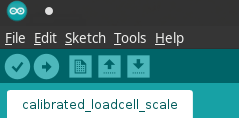
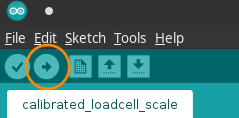
added images and finished instructions

Changed region(s): [[0.0879, 0.3559, 0.3222, 0.7881]]

diff --git a/README.md b/README.md
@@ -35,16 +35,16 @@ Als erstes muss der Raspberry Pi einsatzbereit gemacht werden. Die folgenden Sch
 
 1. Flashe die SD-Karte mit der aktuellsten stable Version von Raspbian bzw. Raspberry OS und stecke sie in den Raspberry Pi
 
-2. Öffne ein Terminal (`Strg + Alt + T`) und update die Software mit:
+2. Starte den Raspberry Pi und öffne ein Terminal (`Strg + Alt + T`) und update die Software mit:
 ```bash
 sudo apt update && sudo apt upgrade -y
 ```
 
-3. Ändere die Datei `/boot/config.txt` wie hier auf der folgenden Website, unter dem Punkt `Software setting`, beschrieben https://www.waveshare.com/wiki/7inch_DSI_LCD  
+3. Ändere die Datei `/boot/config.txt` wie hier auf der folgenden Website, unter dem Punkt `Software setting`, beschrieben (https://www.waveshare.com/wiki/7inch_DSI_LCD)  
 
 **Kurze Zusammenfassung**
 
-Unkommentiere den folgenden Teil der Datei:
+Entkommentiere den folgenden Teil der Datei:
 ```
 #camera_auto_detect=1
 #dtoverlay=vc4-kms-v3d
@@ -82,7 +82,7 @@ sudo apt install arduino
 
 2. Wenn du es noch nicht getan hast, dann Klone das Git Repository für dieses Projekt mit:
 ```bash
-git clone <TODO: Repo URL einfügen>
+git clone git@github.com:cbm-instructions/micro-change.git
 ```
 
 3. Öffne die Arduino IDE und installiere die Library `HX711_ADC` von Olav Kallhovd (https://github.com/olkal/HX711_ADC) wie folgt:  
@@ -109,7 +109,7 @@ const int HX711_sck = 6;
 
 Starte jetzt die erste Kalibrierung. Klicke dafür auf den Button mit dem Pfeil. 
 
--- TODO: Bild mit button einfügen --
+<img src="images/run_button.png" />
 
 Um die Kalibrierung durchzuführen musst du den Serial Monitor öffnen. Klicke dazu auf `Tools > Serial Monitor`. Falls du die Meldung `ser_open(): can't open device "/dev/ttyACM0": Permission denied` bekommst, öffne ein Terminal und führe das folgende Kommando aus:
 ```bash
@@ -117,24 +117,37 @@ sudo chmod a+rwx /dev/ttyACM0
 ```
 Der Pfad in der Fehlermeldung kann auch abweichen. In diesem Fall sollte das obige Kommando mit dem entsprechneden Pfad ausgeführt werden.
 
+**Beispiel der Fehlermeldung:**
+
+<img src="images/tty_permission_denied.png" />
+
 Stelle den Serial Monitor auf den Port 57600. Du solltest jetzt eine Ausgabe bekommen. Befolge die Anweisungen der Ausgabe. Die Ausgabe einer kompletten Kalibrierung sieht wie folgt aus:
 
--- TODO: Füge Bild von Serial Monitor mit ganzer ausgabe ein --
+<img src="images/calibration/4_calibration_full.png" />
 
 Notiere den Wert der Kalibrierung für die erste Zelle.  
 **Beispiel:**
 ```
-LoadCell_1 (5/6) = 117.95
+LoadCell_1 (5/6) = 130.59
 ```
 
-Führe die Kalibrierung auch für die zweite Wägezelle mit den Pins 10 und 11 durch. Danach solltest du 2 Werte für die Kalibrierung haben.  
+Führe die Kalibrierung auch für die zweite Wägezelle mit den Pins 10 und 11 durch. 
+Ändere sie für die zweite Kalibrierung auf:
+```c++
+//pins:
+const int HX711_dout = 10;
+const int HX711_sck = 11;
+```
+
+Danach solltest du 2 Werte für die Kalibrierung haben.
+
 **Beispiel**
 ```
-LoadCell_1 (5/6)   = 117.95
-LoadCell_2 (10/11) = 107.90
+LoadCell_1 (5/6)   = 130.59
+LoadCell_2 (10/11) = 117.95
 ```
 
-Jetzt müssen die Werte der Pins und der Kalibrierungen nur noch in das Programm für die Waage eingefügt werden. Hierzu muss die Datei `calibrated_loadcell_scale.ino` im `arduino-scale/calibrated_loadcell_scale` des Projektordners und ändere die Datei wie folgt ab:
+Jetzt müssen die Werte der Pins und der Kalibrierungen nur noch in das Programm für die Waage eingefügt werden. Öffne hierzu die Datei `micro-change/arduino-scale/calibrated_loadcell_scale/calibrated_loadcell_scale.ino` und ändere die sie wie folgt ab:
 ```c++
 const int HX711_dout_1 = 5;  // Ändere von 4 -> 5
 const int HX711_sck_1 = 6;   // Ändere von 5 -> 6
@@ -147,11 +160,15 @@ void setup() {
   
   // ... snippet ...
 
-  calibrationValue_1 = 117.10; // Kalibrierung für 1. Wägezelle
-  calibrationValue_2 = 127.69; // Kalibrierung für 2. Wägezelle
+  calibrationValue_1 = 130.59; // Kalibrierung für 1. Wägezelle
+  calibrationValue_2 = 117.95; // Kalibrierung für 2. Wägezelle
 ```
 
-Speichere nun die Datei und spiele das Programm auf den Arduino indem du den Pfeil-Button drückst. Wenn das Programm ohne Fehler auf den Arduino geladen wurde, kannst du diesen von deinem Laptop/Deskotp entfernen und an den Raspberry Pi anschließen.
+Speichere nun die Datei und spiele das Programm auf den Arduino indem du den Pfeil-Button drückst.
+
+<img src="images/run_button.png" />
+
+Wenn das Programm ohne Fehler auf den Arduino geladen wurde, kannst du diesen von deinem Laptop/Desktop entfernen und an den Raspberry Pi anschließen.
 
 ## Installation der Anwendung auf dem Raspberry Pi
 
@@ -181,7 +198,7 @@ git clone git@github.com:cbm-instructions/micro-change.git
 
 - Wechsle in den Ordner des Repos und dann in den Order 'bin-client'
 ```bash
-cd <TODO: Richtiger Ordnername>/bin-client
+cd micro-change/bin-client
 ```
 
 - Installiere die benötigten Node-Packages
@@ -199,7 +216,8 @@ cd ..
 chmod a+x build_and_bundle_for_usb.sh
 ```
 
-- Führe die Datei `build_and_bundle_for_usb.sh` aus. Bevor du die Datei ausführst stelle sicher, dass sich in `bin-client` kein Ordner mit dem Namen `dist befindet`, falls doch lösche ihn. Dieser Prozess kann ein wenig dauern.
+- Führe die Datei `build_and_bundle_for_usb.sh` aus. Bevor du die Datei ausführst stelle sicher, dass sich in `bin-client` kein Ordner mit dem Namen `dist` befindet, falls doch lösche ihn. Dieser Prozess kann ein wenig dauern.  
+**Befehl:**
 ```bash
 ./build_and_bundle_for_usb.sh
 ```
@@ -225,3 +243,20 @@ Wenn `setup.sh` erfolgreich ausgeführt wurde, kannst du die Anwendung durch die
 ```bash
 ./run.sh
 ```
+
+Falls `run.sh` die Anwendung nicht vollständig startet tue folgendes:
+
+1. Öffne zwei Terminalfenster (`Strg + Alt + T`)
+
+2. Im ersten Terminalfenster, navigiere nach `ben_bundle/scale-data-recorder` und führe folgenden Befehlt aus:
+```bash
+pip3 install --editable . && python3 recorder.py
+```
+
+3. Im zweiten Terminalfenster, navigiere in den von `setup.sh` erstellten Ordner `ben_bundle/squashfs-root` und führe folgenden Befehl aus:
+```bash
+./bin-client
+```
+
+Die Anwendung sollte nun vollständig starten.  
+**Glückwunsch!** Du kannst nun BEN verwenden und deinem Ziel nach einer besseren Umwelt ein Stück näher kommen.
